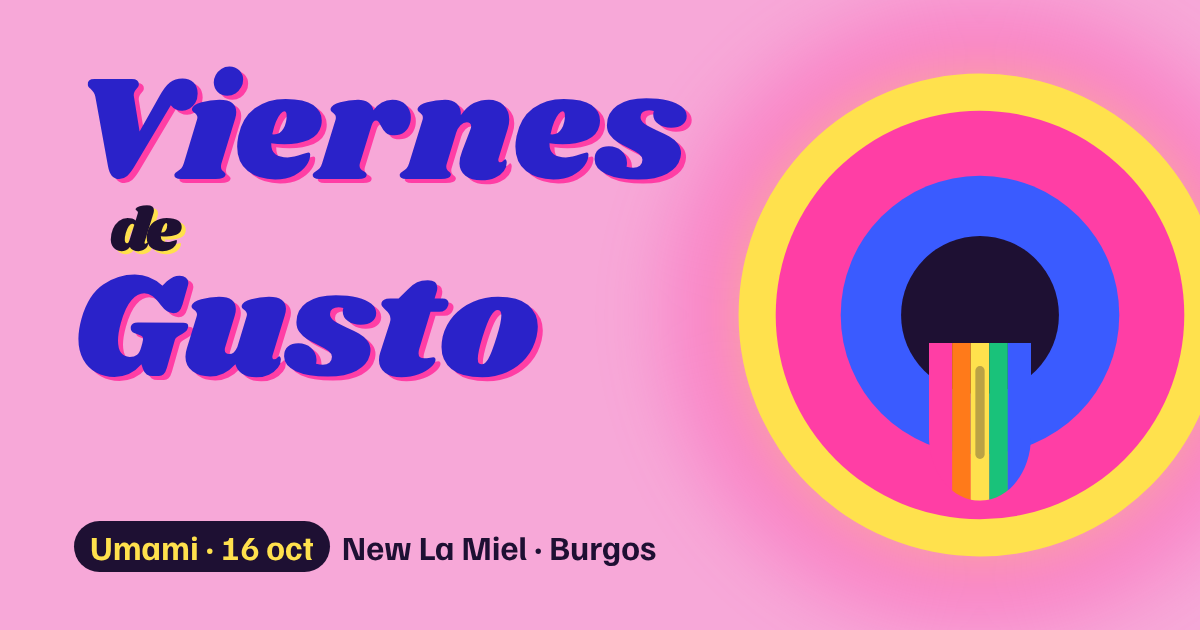
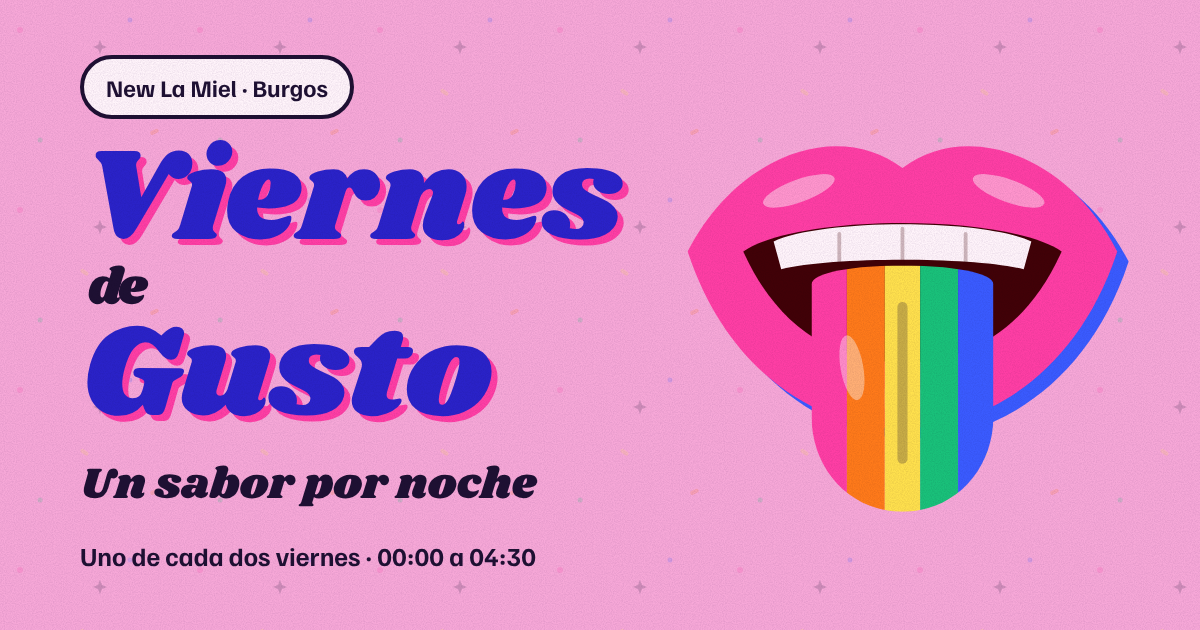
Use live Vercel URL for share image, canonical links and sitemap; refresh share image
Claude-Session: https://claude.ai/code/session_01BAWG5sSexxeV32VypvJQZo

diff --git a/index.html b/index.html
@@ -7,11 +7,13 @@
   <meta name="description" content="Un sabor por noche: el DJ en el centro y todos alrededor. Viernes de Gusto, uno de cada dos viernes en New La Miel (Burgos). Primera edición: Umami, viernes 16 de octubre.">
   <meta name="theme-color" content="#F7A8D8">
   <meta name="robots" content="index, follow">
+  <link rel="canonical" href="https://web-gusto.vercel.app/">
+  <meta property="og:url" content="https://web-gusto.vercel.app/">
   <meta property="og:type" content="website">
   <meta property="og:site_name" content="Viernes de Gusto">
   <meta property="og:title" content="Viernes de Gusto · New La Miel, Burgos">
   <meta property="og:description" content="El DJ en el centro y todos alrededor. Uno de cada dos viernes en New La Miel, Burgos. Primera edición: Umami, 16 de octubre.">
-  <meta property="og:image" content="og-image.png">
+  <meta property="og:image" content="https://web-gusto.vercel.app/og-image.png">
   <meta property="og:image:width" content="1200">
   <meta property="og:image:height" content="630">
   <meta property="og:image:alt" content="Viernes de Gusto: una boca que saca una lengua multicolor">
@@ -19,7 +21,7 @@
   <meta name="twitter:card" content="summary_large_image">
   <meta name="twitter:title" content="Viernes de Gusto · New La Miel, Burgos">
   <meta name="twitter:description" content="El DJ en el centro y todos alrededor. Uno de cada dos viernes en New La Miel, Burgos.">
-  <meta name="twitter:image" content="og-image.png">
+  <meta name="twitter:image" content="https://web-gusto.vercel.app/og-image.png">
   <link rel="icon" href="favicon.svg" type="image/svg+xml">
   <link rel="icon" href="favicon-32.png" sizes="32x32" type="image/png">
   <link rel="apple-touch-icon" href="apple-touch-icon.png">
@@ -62,7 +64,7 @@
         "endDate": "2026-10-17T04:30:00+02:00",
         "eventStatus": "https://schema.org/EventScheduled",
         "eventAttendanceMode": "https://schema.org/OfflineEventAttendanceMode",
-        "image": "og-image.png",
+        "image": "https://web-gusto.vercel.app/og-image.png",
         "location": { "@id": "#new-la-miel" },
         "organizer": [{ "@id": "#gusto" }, { "@id": "#new-la-miel" }],
         "performer": [

diff --git a/como-se-sirve.html b/como-se-sirve.html
@@ -7,11 +7,13 @@
   <meta name="description" content="Formato boiler room: el DJ en el centro de la sala y todos alrededor, 2 o 3 chefs por noche y chupito gratis.">
   <meta name="theme-color" content="#F7A8D8">
   <meta name="robots" content="index, follow">
+  <link rel="canonical" href="https://web-gusto.vercel.app/como-se-sirve.html">
+  <meta property="og:url" content="https://web-gusto.vercel.app/como-se-sirve.html">
   <meta property="og:type" content="website">
   <meta property="og:site_name" content="Viernes de Gusto">
   <meta property="og:title" content="Cómo se sirve · Viernes de Gusto">
   <meta property="og:description" content="El DJ en el centro y todos alrededor. Uno de cada dos viernes en New La Miel, Burgos. Primera edición: Umami, 16 de octubre.">
-  <meta property="og:image" content="og-image.png">
+  <meta property="og:image" content="https://web-gusto.vercel.app/og-image.png">
   <meta property="og:image:width" content="1200">
   <meta property="og:image:height" content="630">
   <meta property="og:image:alt" content="Viernes de Gusto: el plato de colores con el DJ en el centro y una lengua multicolor">
@@ -19,7 +21,7 @@
   <meta name="twitter:card" content="summary_large_image">
   <meta name="twitter:title" content="Cómo se sirve · Viernes de Gusto">
   <meta name="twitter:description" content="El DJ en el centro y todos alrededor. Uno de cada dos viernes en New La Miel, Burgos.">
-  <meta name="twitter:image" content="og-image.png">
+  <meta name="twitter:image" content="https://web-gusto.vercel.app/og-image.png">
   <link rel="icon" href="favicon.svg" type="image/svg+xml">
   <link rel="icon" href="favicon-32.png" sizes="32x32" type="image/png">
   <link rel="apple-touch-icon" href="apple-touch-icon.png">

diff --git a/haz-tu-pedido.html b/haz-tu-pedido.html
@@ -7,11 +7,13 @@
   <meta name="description" content="Entradas anticipadas para Viernes de Gusto: Umami, 4 €, 6 € y 8 €, todas con copa y chupito.">
   <meta name="theme-color" content="#F7A8D8">
   <meta name="robots" content="index, follow">
+  <link rel="canonical" href="https://web-gusto.vercel.app/haz-tu-pedido.html">
+  <meta property="og:url" content="https://web-gusto.vercel.app/haz-tu-pedido.html">
   <meta property="og:type" content="website">
   <meta property="og:site_name" content="Viernes de Gusto">
   <meta property="og:title" content="Haz tu pedido · Viernes de Gusto">
   <meta property="og:description" content="El DJ en el centro y todos alrededor. Uno de cada dos viernes en New La Miel, Burgos. Primera edición: Umami, 16 de octubre.">
-  <meta property="og:image" content="og-image.png">
+  <meta property="og:image" content="https://web-gusto.vercel.app/og-image.png">
   <meta property="og:image:width" content="1200">
   <meta property="og:image:height" content="630">
   <meta property="og:image:alt" content="Viernes de Gusto: el plato de colores con el DJ en el centro y una lengua multicolor">
@@ -19,7 +21,7 @@
   <meta name="twitter:card" content="summary_large_image">
   <meta name="twitter:title" content="Haz tu pedido · Viernes de Gusto">
   <meta name="twitter:description" content="El DJ en el centro y todos alrededor. Uno de cada dos viernes en New La Miel, Burgos.">
-  <meta name="twitter:image" content="og-image.png">
+  <meta name="twitter:image" content="https://web-gusto.vercel.app/og-image.png">
   <link rel="icon" href="favicon.svg" type="image/svg+xml">
   <link rel="icon" href="favicon-32.png" sizes="32x32" type="image/png">
   <link rel="apple-touch-icon" href="apple-touch-icon.png">

diff --git a/donde-se-sirve.html b/donde-se-sirve.html
@@ -7,11 +7,13 @@
   <meta name="description" content="New La Miel, Calle Cardenal Segura 25, Burgos. Horario, teléfono y cómo llegar.">
   <meta name="theme-color" content="#F7A8D8">
   <meta name="robots" content="index, follow">
+  <link rel="canonical" href="https://web-gusto.vercel.app/donde-se-sirve.html">
+  <meta property="og:url" content="https://web-gusto.vercel.app/donde-se-sirve.html">
   <meta property="og:type" content="website">
   <meta property="og:site_name" content="Viernes de Gusto">
   <meta property="og:title" content="¿Dónde se sirve? · Viernes de Gusto">
   <meta property="og:description" content="El DJ en el centro y todos alrededor. Uno de cada dos viernes en New La Miel, Burgos. Primera edición: Umami, 16 de octubre.">
-  <meta property="og:image" content="og-image.png">
+  <meta property="og:image" content="https://web-gusto.vercel.app/og-image.png">
   <meta property="og:image:width" content="1200">
   <meta property="og:image:height" content="630">
   <meta property="og:image:alt" content="Viernes de Gusto: el plato de colores con el DJ en el centro y una lengua multicolor">
@@ -19,7 +21,7 @@
   <meta name="twitter:card" content="summary_large_image">
   <meta name="twitter:title" content="¿Dónde se sirve? · Viernes de Gusto">
   <meta name="twitter:description" content="El DJ en el centro y todos alrededor. Uno de cada dos viernes en New La Miel, Burgos.">
-  <meta name="twitter:image" content="og-image.png">
+  <meta name="twitter:image" content="https://web-gusto.vercel.app/og-image.png">
   <link rel="icon" href="favicon.svg" type="image/svg+xml">
   <link rel="icon" href="favicon-32.png" sizes="32x32" type="image/png">
   <link rel="apple-touch-icon" href="apple-touch-icon.png">

diff --git a/menu-del-mes.html b/menu-del-mes.html
@@ -7,11 +7,13 @@
   <meta name="description" content="Calendario de Viernes de Gusto: uno de cada dos viernes en New La Miel, Burgos.">
   <meta name="theme-color" content="#F7A8D8">
   <meta name="robots" content="index, follow">
+  <link rel="canonical" href="https://web-gusto.vercel.app/menu-del-mes.html">
+  <meta property="og:url" content="https://web-gusto.vercel.app/menu-del-mes.html">
   <meta property="og:type" content="website">
   <meta property="og:site_name" content="Viernes de Gusto">
   <meta property="og:title" content="Menú del mes · Viernes de Gusto">
   <meta property="og:description" content="El DJ en el centro y todos alrededor. Uno de cada dos viernes en New La Miel, Burgos. Primera edición: Umami, 16 de octubre.">
-  <meta property="og:image" content="og-image.png">
+  <meta property="og:image" content="https://web-gusto.vercel.app/og-image.png">
   <meta property="og:image:width" content="1200">
   <meta property="og:image:height" content="630">
   <meta property="og:image:alt" content="Viernes de Gusto: el plato de colores con el DJ en el centro y una lengua multicolor">
@@ -19,7 +21,7 @@
   <meta name="twitter:card" content="summary_large_image">
   <meta name="twitter:title" content="Menú del mes · Viernes de Gusto">
   <meta name="twitter:description" content="El DJ en el centro y todos alrededor. Uno de cada dos viernes en New La Miel, Burgos.">
-  <meta name="twitter:image" content="og-image.png">
+  <meta name="twitter:image" content="https://web-gusto.vercel.app/og-image.png">
   <link rel="icon" href="favicon.svg" type="image/svg+xml">
   <link rel="icon" href="favicon-32.png" sizes="32x32" type="image/png">
   <link rel="apple-touch-icon" href="apple-touch-icon.png">

diff --git a/la-carta.html b/la-carta.html
@@ -7,11 +7,13 @@
   <meta name="description" content="Umami, el primer plato de Viernes de Gusto: ingredientes, chefs y lo que está fuera de carta.">
   <meta name="theme-color" content="#F7A8D8">
   <meta name="robots" content="index, follow">
+  <link rel="canonical" href="https://web-gusto.vercel.app/la-carta.html">
+  <meta property="og:url" content="https://web-gusto.vercel.app/la-carta.html">
   <meta property="og:type" content="website">
   <meta property="og:site_name" content="Viernes de Gusto">
   <meta property="og:title" content="La Carta · Viernes de Gusto">
   <meta property="og:description" content="El DJ en el centro y todos alrededor. Uno de cada dos viernes en New La Miel, Burgos. Primera edición: Umami, 16 de octubre.">
-  <meta property="og:image" content="og-image.png">
+  <meta property="og:image" content="https://web-gusto.vercel.app/og-image.png">
   <meta property="og:image:width" content="1200">
   <meta property="og:image:height" content="630">
   <meta property="og:image:alt" content="Viernes de Gusto: el plato de colores con el DJ en el centro y una lengua multicolor">
@@ -19,7 +21,7 @@
   <meta name="twitter:card" content="summary_large_image">
   <meta name="twitter:title" content="La Carta · Viernes de Gusto">
   <meta name="twitter:description" content="El DJ en el centro y todos alrededor. Uno de cada dos viernes en New La Miel, Burgos.">
-  <meta name="twitter:image" content="og-image.png">
+  <meta name="twitter:image" content="https://web-gusto.vercel.app/og-image.png">
   <link rel="icon" href="favicon.svg" type="image/svg+xml">
   <link rel="icon" href="favicon-32.png" sizes="32x32" type="image/png">
   <link rel="apple-touch-icon" href="apple-touch-icon.png">

diff --git a/preguntas.html b/preguntas.html
@@ -7,11 +7,13 @@
   <meta name="description" content="Qué es Viernes de Gusto, qué es lo de los sabores y cada cuánto hay fiesta.">
   <meta name="theme-color" content="#F7A8D8">
   <meta name="robots" content="index, follow">
+  <link rel="canonical" href="https://web-gusto.vercel.app/preguntas.html">
+  <meta property="og:url" content="https://web-gusto.vercel.app/preguntas.html">
   <meta property="og:type" content="website">
   <meta property="og:site_name" content="Viernes de Gusto">
   <meta property="og:title" content="Preguntas · Viernes de Gusto">
   <meta property="og:description" content="El DJ en el centro y todos alrededor. Uno de cada dos viernes en New La Miel, Burgos. Primera edición: Umami, 16 de octubre.">
-  <meta property="og:image" content="og-image.png">
+  <meta property="og:image" content="https://web-gusto.vercel.app/og-image.png">
   <meta property="og:image:width" content="1200">
   <meta property="og:image:height" content="630">
   <meta property="og:image:alt" content="Viernes de Gusto: el plato de colores con el DJ en el centro y una lengua multicolor">
@@ -19,7 +21,7 @@
   <meta name="twitter:card" content="summary_large_image">
   <meta name="twitter:title" content="Preguntas · Viernes de Gusto">
   <meta name="twitter:description" content="El DJ en el centro y todos alrededor. Uno de cada dos viernes en New La Miel, Burgos.">
-  <meta name="twitter:image" content="og-image.png">
+  <meta name="twitter:image" content="https://web-gusto.vercel.app/og-image.png">
   <link rel="icon" href="favicon.svg" type="image/svg+xml">
   <link rel="icon" href="favicon-32.png" sizes="32x32" type="image/png">
   <link rel="apple-touch-icon" href="apple-touch-icon.png">
